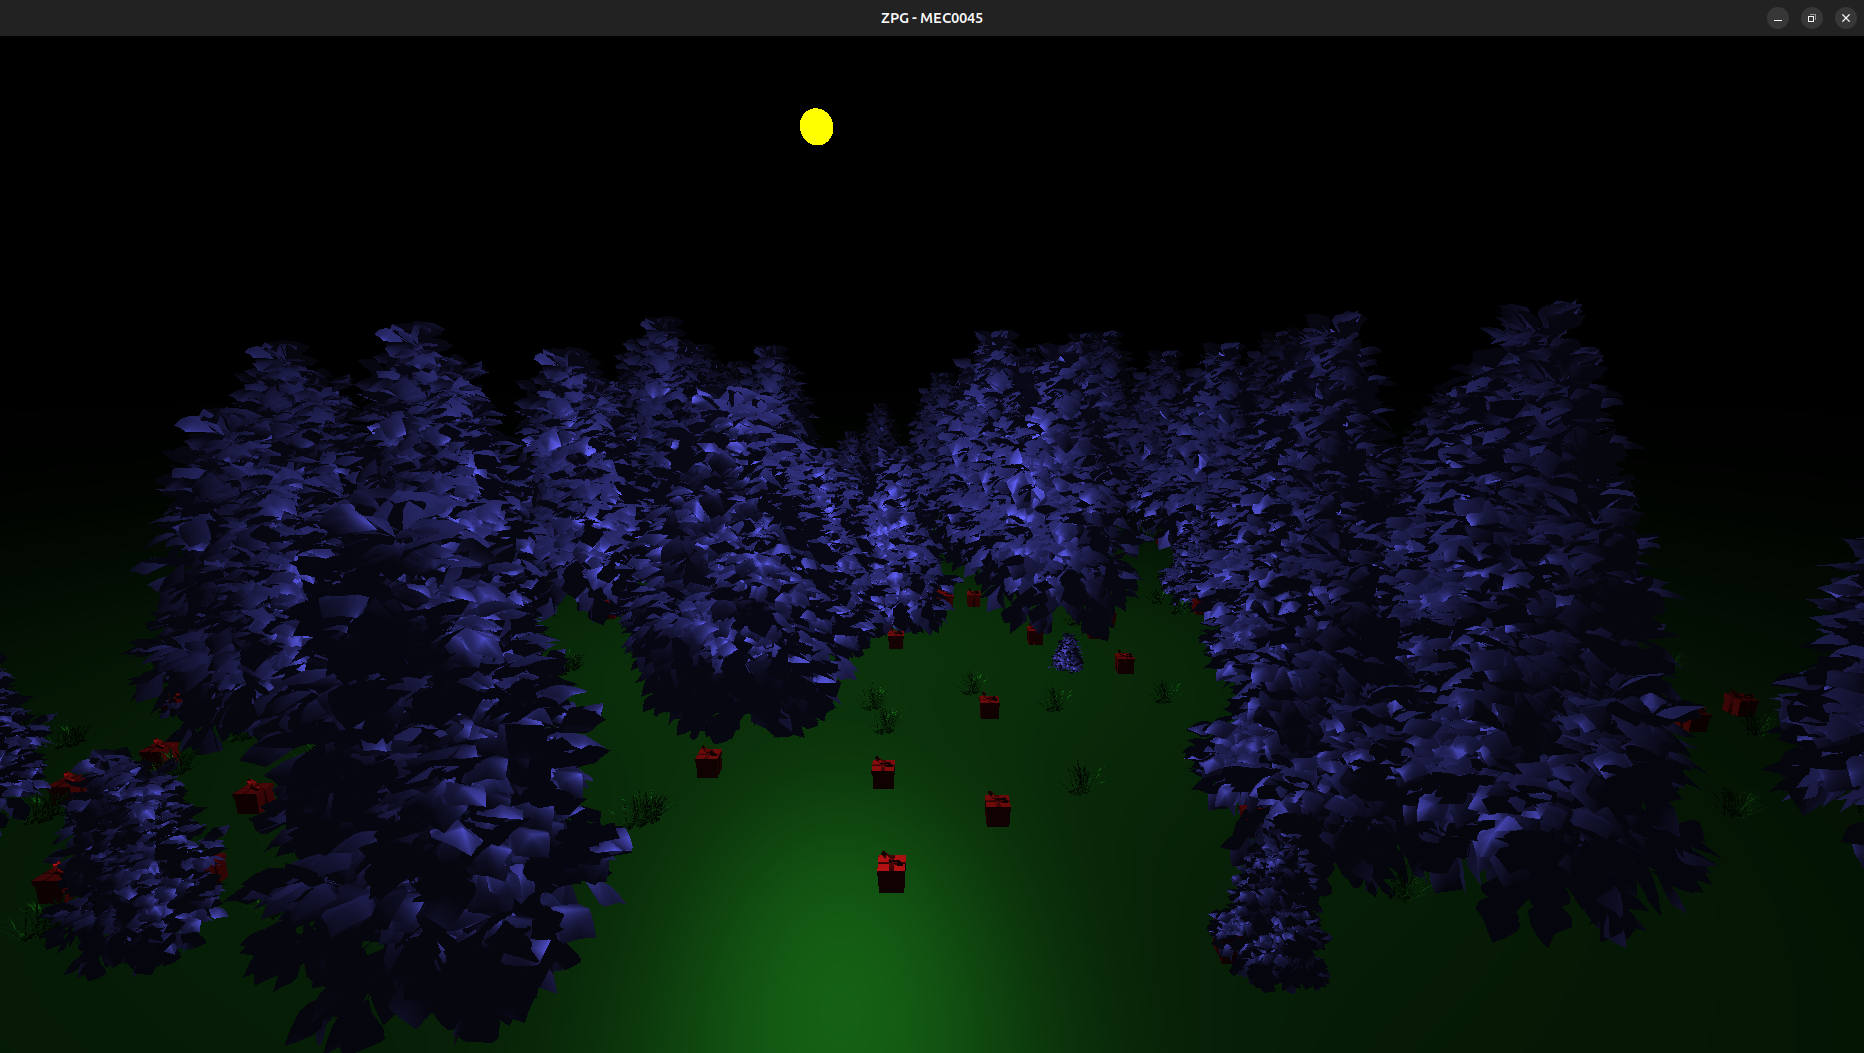
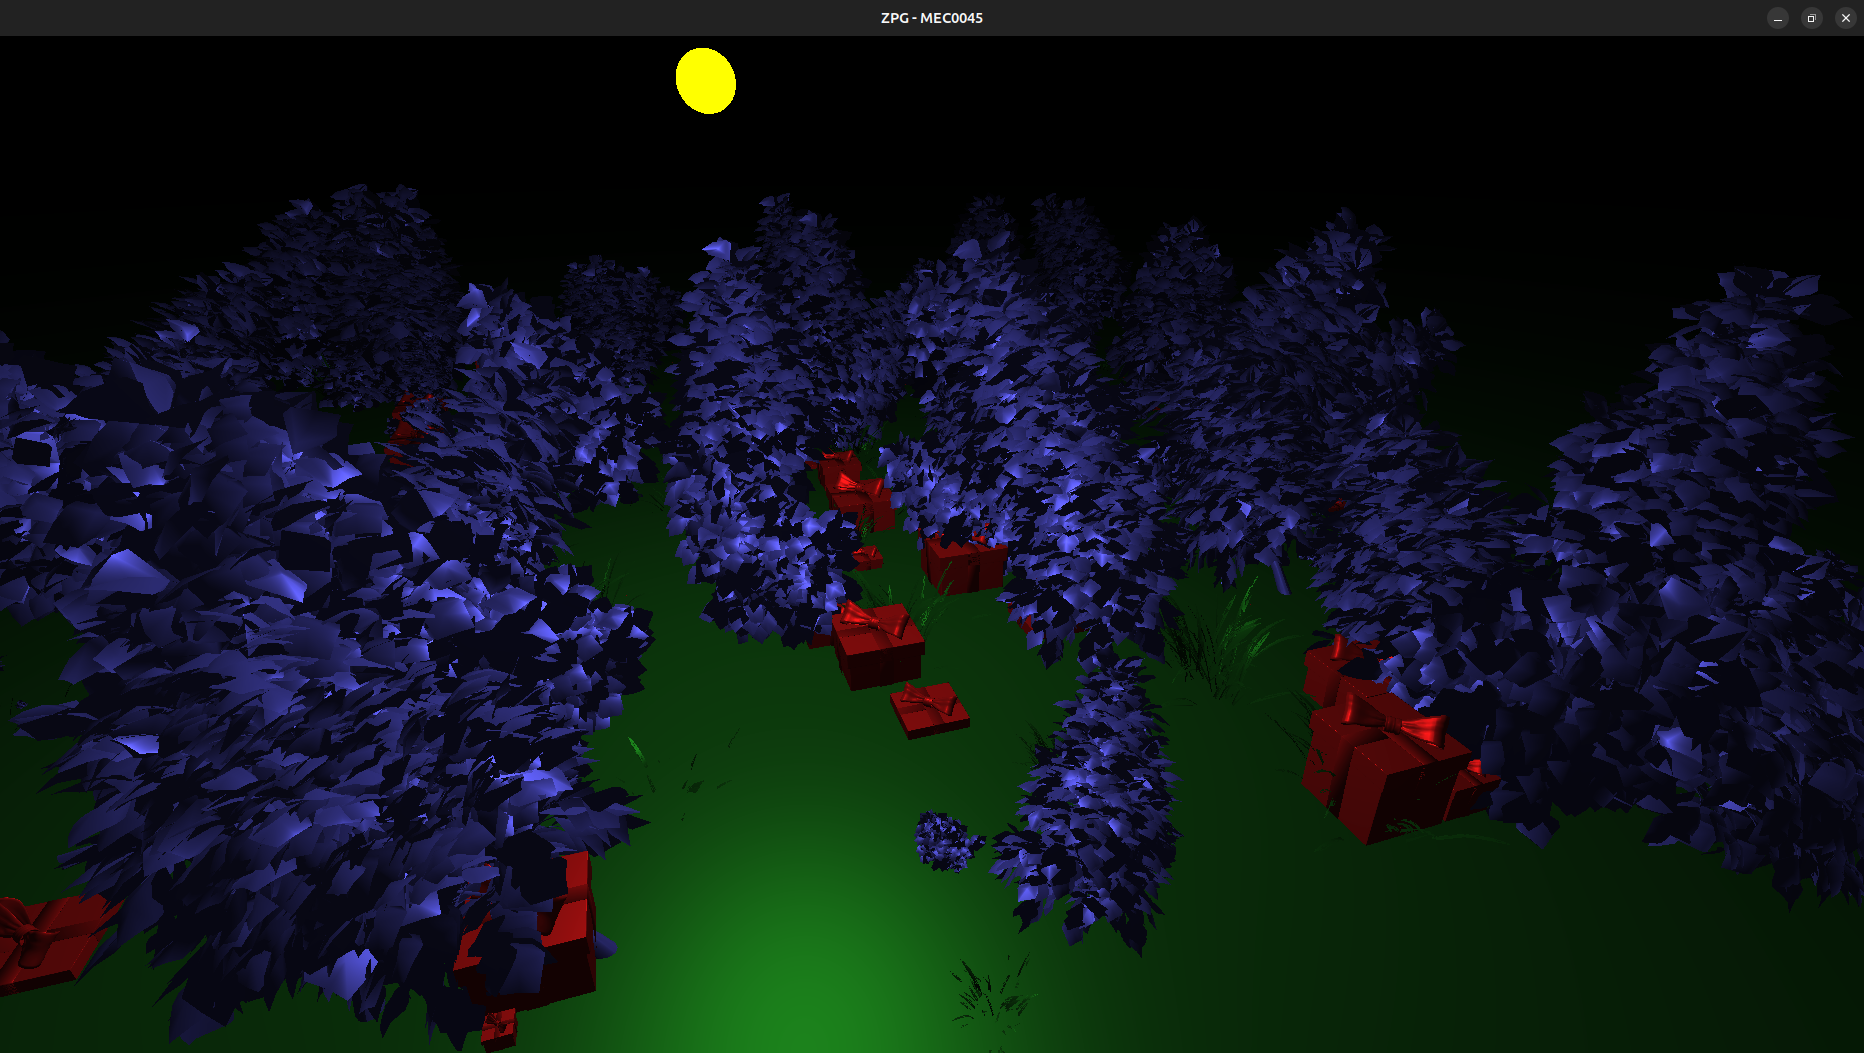
fokin txt

diff --git a/src/main.cpp b/src/main.cpp
@@ -157,8 +157,7 @@ int main() {
         sphere_scene_3->get_material()->set_shininess(1.f);
     });
 
-    // secen 5
-
+    // scene 5
     auto render_objects = std::vector<RenderObject *>{light_render_obj};
 
     auto plain = new RenderObject{model_plain, shader_blinn, material_green};
@@ -171,32 +170,37 @@ int main() {
     // trees
     for (int x = 0; x < 10; x++) {
         for (int z = 0; z < 10; z++) {
-            auto tree = new RenderObject{model_tree, shader_blinn, material_blue};
-            tree->get_transform()->set_position(glm::vec3(max_x * (random_normalized_float() - 1.f),
-                                                          random_normalized_float() - 1.f,
-                                                          max_z * (random_normalized_float() - 1.f)));
-            tree->get_transform()->scale(random_normalized_float());
-            render_objects.push_back(tree);
+            auto obj = new RenderObject{model_tree, shader_blinn, material_blue};
+            obj->get_transform()->set_position(glm::vec3(max_x * (random_normalized_float() - 1.f),
+                                                         random_normalized_float() - 1.f,
+                                                         max_z * (random_normalized_float() - 1.f)));
+            obj->get_transform()->scale(random_normalized_float());
+            obj->get_transform()->set_rotation(
+                    glm::vec3((random_normalized_float() - 0.5f) * 90.f, 0.f,
+                              (random_normalized_float() - 0.5f) * 90.f));
+            render_objects.push_back(obj);
         }
     }
     // bushes
     for (int x = 0; x < 10; x++) {
         for (int z = 0; z < 10; z++) {
-            auto bush = new RenderObject{model_bushes, shader_blinn, material_green};
-            bush->get_transform()->set_position(glm::vec3(max_x * (random_normalized_float() - 1.f),
-                                                          0.f,
-                                                          max_z * (random_normalized_float() - 1.f)));
-            render_objects.push_back(bush);
+            auto obj = new RenderObject{model_bushes, shader_blinn, material_green};
+            obj->get_transform()->set_position(glm::vec3(max_x * (random_normalized_float() - 1.f),
+                                                         random_normalized_float() - 1.f,
+                                                         max_z * (random_normalized_float() - 1.f)));
+            obj->get_transform()->scale(random_normalized_float() * 4);
+            render_objects.push_back(obj);
         }
     }
     // gifts
     for (int x = 0; x < 10; x++) {
         for (int z = 0; z < 10; z++) {
-            auto gift = new RenderObject{model_gift, shader_blinn, material_red};
-            gift->get_transform()->set_position(glm::vec3(max_x * (random_normalized_float() - 1.f),
-                                                          0.f,
-                                                          max_z * (random_normalized_float() - 1.f)));
-            render_objects.push_back(gift);
+            auto obj = new RenderObject{model_gift, shader_blinn, material_red};
+            obj->get_transform()->scale(random_normalized_float() * 4);
+            obj->get_transform()->set_position(glm::vec3(max_x * (random_normalized_float() - 1.f),
+                                                         random_normalized_float() - 1.f,
+                                                         max_z * (random_normalized_float() - 1.f)));
+            render_objects.push_back(obj);
         }
     }
 
@@ -267,5 +271,5 @@ int main() {
         });
     }
 
-    scene_1->play();
+    scene_5->play();
 }

diff --git a/include/RenderObject.h b/include/RenderObject.h
@@ -21,7 +21,7 @@ public:
 
     void set_transform(Transform *new_transform);
 
-protected:
+private:
     Model *model;
     Material *material;
     ShaderProgram *shader;
